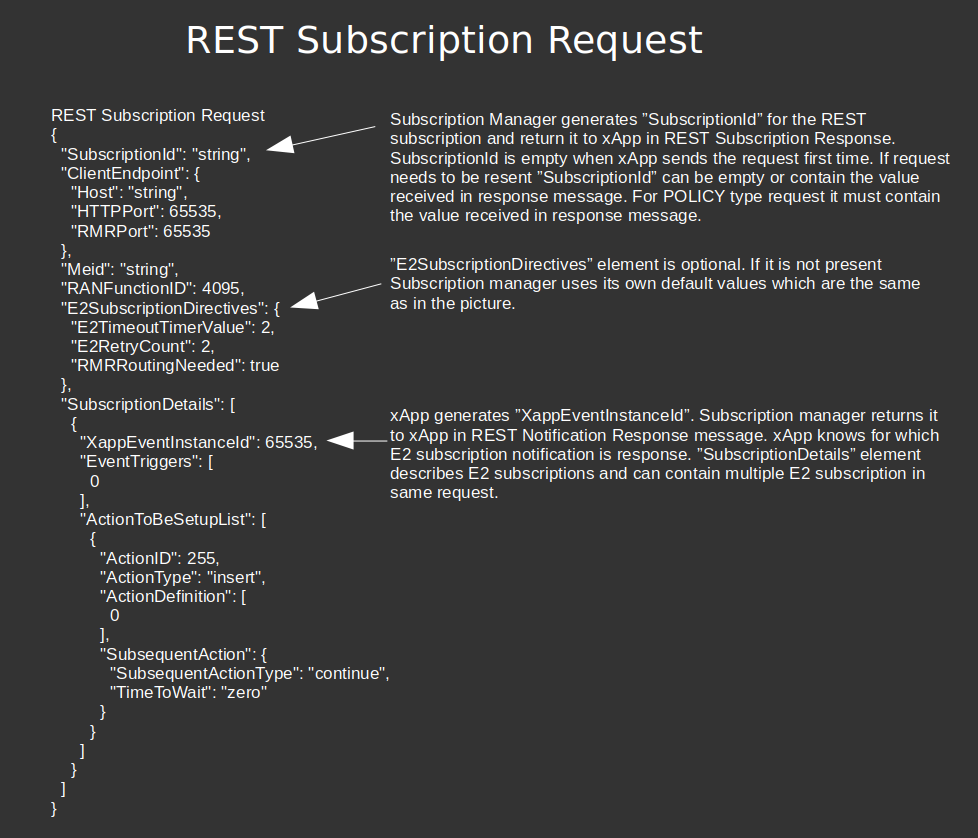
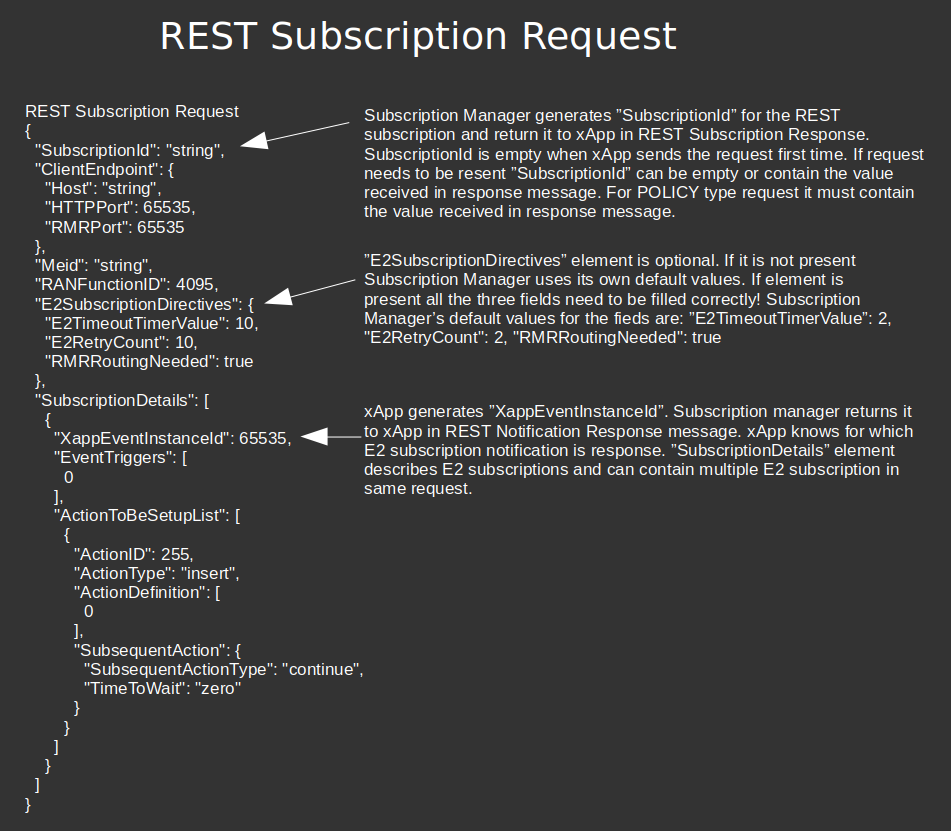
Subscription REST interface update  - xapp-frame update v0.8.5 -> v0.9.3  - Added REST interface chages introduced in new xapp-frame  - Document updated  - Added workarouds in dockerfile for outdated base image problem

Changed region(s): [[0.0305, 0.1203, 0.9758, 0.8424], [0.1525, 0.0, 0.7319, 0.0903], [0.061, 0.8724, 0.0915, 0.9025]]

diff --git a/pkg/control/control.go b/pkg/control/control.go
@@ -318,7 +318,7 @@ func (c *Control) Run() {
 //-------------------------------------------------------------------
 //
 //-------------------------------------------------------------------
-func (c *Control) GetOrCreateRestSubscription(p *models.SubscriptionParams, md5sum string, xAppRmrEndpoint string) (*RESTSubscription, string, string, error) {
+func (c *Control) GetOrCreateRestSubscription(p *models.SubscriptionParams, md5sum string, xAppRmrEndpoint string) (*RESTSubscription, string, error) {
 
 	var restSubId string
 	var restSubscription *RESTSubscription
@@ -357,7 +357,7 @@ func (c *Control) GetOrCreateRestSubscription(p *models.SubscriptionParams, md5s
 			// Subscription with id in REST request does not exist
 			xapp.Logger.Error("%s", err.Error())
 			c.UpdateCounter(cRestSubFailToXapp)
-			return nil, "", models.SubscriptionInstanceRejectCauseRESTSubscriptionWithGivenIDDoesNotExist, err
+			return nil, "", err
 		}
 
 		if !exists {
@@ -367,7 +367,7 @@ func (c *Control) GetOrCreateRestSubscription(p *models.SubscriptionParams, md5s
 		}
 	}
 
-	return restSubscription, restSubId, "", nil
+	return restSubscription, restSubId, nil
 }
 
 //-------------------------------------------------------------------
@@ -389,14 +389,14 @@ func (c *Control) RESTSubscriptionHandler(params interface{}) (*models.Subscript
 		err := fmt.Errorf("ClientEndpoint == nil")
 		xapp.Logger.Error("%v", err)
 		c.UpdateCounter(cRestSubFailToXapp)
-		return c.GetSubscriptionResponse(models.SubscriptionInstanceRejectCauseInvalidRESTRequestMessage, err.Error(), "SUBMGR", ""), common.SubscribeBadRequestCode
+		return nil, common.SubscribeBadRequestCode
 	}
 
 	_, xAppRmrEndpoint, err := ConstructEndpointAddresses(*p.ClientEndpoint)
 	if err != nil {
 		xapp.Logger.Error("%s", err.Error())
 		c.UpdateCounter(cRestSubFailToXapp)
-		return c.GetSubscriptionResponse(models.SubscriptionInstanceRejectCauseInvalidRESTRequestMessage, err.Error(), "SUBMGR", ""), common.SubscribeBadRequestCode
+		return nil, common.SubscribeBadRequestCode
 	}
 
 	md5sum, err := CalculateRequestMd5sum(params)
@@ -404,10 +404,10 @@ func (c *Control) RESTSubscriptionHandler(params interface{}) (*models.Subscript
 		xapp.Logger.Error("Failed to generate md5sum from incoming request - %s", err.Error())
 	}
 
-	restSubscription, restSubId, rejectCause, err := c.GetOrCreateRestSubscription(p, md5sum, xAppRmrEndpoint)
+	restSubscription, restSubId, err := c.GetOrCreateRestSubscription(p, md5sum, xAppRmrEndpoint)
 	if err != nil {
-		xapp.Logger.Error("Failed to get/allocate REST subscription")
-		return c.GetSubscriptionResponse(rejectCause, err.Error(), "SUBMGR", ""), common.SubscribeBadRequestCode
+		xapp.Logger.Error("Subscription with id in REST request does not exist")
+		return nil, common.SubscribeNotFoundCode
 	}
 
 	subResp.SubscriptionID = &restSubId
@@ -418,7 +418,7 @@ func (c *Control) RESTSubscriptionHandler(params interface{}) (*models.Subscript
 		restDuplicateCtrl.DeleteLastKnownRestSubsIdBasedOnMd5sum(md5sum)
 		c.registry.DeleteRESTSubscription(&restSubId)
 		c.UpdateCounter(cRestSubFailToXapp)
-		return c.GetSubscriptionResponse(models.SubscriptionInstanceRejectCauseInvalidRESTRequestMessage, err.Error(), "SUBMGR", ""), common.SubscribeBadRequestCode
+		return nil, common.SubscribeBadRequestCode
 	}
 
 	duplicate := restDuplicateCtrl.IsDuplicateToOngoingTransaction(restSubId, md5sum)
@@ -433,7 +433,7 @@ func (c *Control) RESTSubscriptionHandler(params interface{}) (*models.Subscript
 	e2SubscriptionDirectives, err := c.GetE2SubscriptionDirectives(p)
 	if err != nil {
 		xapp.Logger.Error("%s", err)
-		return c.GetSubscriptionResponse(models.SubscriptionInstanceRejectCauseInvalidRESTRequestMessage, err.Error(), "SUBMGR", ""), common.SubscribeBadRequestCode
+		return nil, common.SubscribeBadRequestCode
 	}
 	go c.processSubscriptionRequests(restSubscription, &subReqList, p.ClientEndpoint, p.Meid, &restSubId, xAppRmrEndpoint, md5sum, e2SubscriptionDirectives)
 
@@ -468,35 +468,12 @@ func (c *Control) GetE2SubscriptionDirectives(p *models.SubscriptionParams) (*E2
 				return nil, fmt.Errorf("p.E2SubscriptionDirectives.E2RetryCount out of range (0-10): %v", *p.E2SubscriptionDirectives.E2RetryCount)
 			}
 		}
-		if p.E2SubscriptionDirectives.RMRRoutingNeeded == nil {
-			xapp.Logger.Error("p.E2SubscriptionDirectives.RMRRoutingNeeded == nil")
-			e2SubscriptionDirectives.CreateRMRRoute = true
-		} else {
-			e2SubscriptionDirectives.CreateRMRRoute = *p.E2SubscriptionDirectives.RMRRoutingNeeded
-		}
+		e2SubscriptionDirectives.CreateRMRRoute = p.E2SubscriptionDirectives.RMRRoutingNeeded
 	}
 	xapp.Logger.Debug("e2SubscriptionDirectives.E2TimeoutTimerValue: %v", e2SubscriptionDirectives.E2TimeoutTimerValue)
 	xapp.Logger.Debug("e2SubscriptionDirectives.E2MaxTryCount: %v", e2SubscriptionDirectives.E2MaxTryCount)
 	xapp.Logger.Debug("e2SubscriptionDirectives.CreateRMRRoute: %v", e2SubscriptionDirectives.CreateRMRRoute)
 	return e2SubscriptionDirectives, nil
-}
-
-//-------------------------------------------------------------------
-//
-//-------------------------------------------------------------------
-func (c *Control) GetSubscriptionResponse(rejectCause string, errorCause string, errorSource string, timeoutType string) *models.SubscriptionResponse {
-	subResp := models.SubscriptionResponse{}
-	subscriptionInstance := models.SubscriptionInstance{}
-	subscriptionInstance.RejectCause = &rejectCause
-	subscriptionInstance.ErrorCause = &errorCause
-	subscriptionInstance.ErrorSource = &errorSource
-	if timeoutType != "" {
-		subscriptionInstance.TimeoutType = &timeoutType
-	}
-	subResp.SubscriptionInstances = append(subResp.SubscriptionInstances, &subscriptionInstance)
-	xapp.Logger.Error("etSubscriptionResponse() %+v", subscriptionInstance)
-
-	return &subResp
 }
 
 //-------------------------------------------------------------------
@@ -624,9 +601,9 @@ func (c *Control) sendUnsuccesfullResponseNotification(restSubId *string, restSu
 		SubscriptionID: restSubId,
 		SubscriptionInstances: []*models.SubscriptionInstance{
 			&models.SubscriptionInstance{E2EventInstanceID: &e2EventInstanceID,
-				ErrorCause:          &errorInfo.ErrorCause,
-				ErrorSource:         &errorInfo.ErrorSource,
-				TimeoutType:         &errorInfo.TimeoutType,
+				ErrorCause:          errorInfo.ErrorCause,
+				ErrorSource:         errorInfo.ErrorSource,
+				TimeoutType:         errorInfo.TimeoutType,
 				XappEventInstanceID: &xAppEventInstanceID},
 		},
 	}
@@ -660,7 +637,7 @@ func (c *Control) sendSuccesfullResponseNotification(restSubId *string, restSubs
 		SubscriptionID: restSubId,
 		SubscriptionInstances: []*models.SubscriptionInstance{
 			&models.SubscriptionInstance{E2EventInstanceID: &e2EventInstanceID,
-				ErrorCause:          nil,
+				ErrorCause:          "",
 				XappEventInstanceID: &xAppEventInstanceID},
 		},
 	}
@@ -1506,11 +1483,7 @@ func (c *Control) PrintRESTSubscriptionRequest(p *models.SubscriptionParams) {
 			fmt.Printf("    E2RetryCount = %v\n", *p.E2SubscriptionDirectives.E2RetryCount)
 		}
 		fmt.Printf("    E2TimeoutTimerValue = %v\n", p.E2SubscriptionDirectives.E2TimeoutTimerValue)
-		if p.E2SubscriptionDirectives.RMRRoutingNeeded == nil {
-			fmt.Println("    RMRRoutingNeeded == nil")
-		} else {
-			fmt.Printf("    RMRRoutingNeeded = %v\n", *p.E2SubscriptionDirectives.RMRRoutingNeeded)
-		}
+		fmt.Printf("    RMRRoutingNeeded = %v\n", p.E2SubscriptionDirectives.RMRRoutingNeeded)
 	}
 	for _, subscriptionDetail := range p.SubscriptionDetails {
 		if p.RANFunctionID != nil {

diff --git a/pkg/teststube2ap/stubE2.go b/pkg/teststube2ap/stubE2.go
@@ -838,21 +838,9 @@ func (tc *E2Stub) GetE2RestIds(resp *clientmodel.SubscriptionResponse) *E2RestId
 			if resp.SubscriptionInstances[0].E2EventInstanceID != nil {
 				e2RestIds.E2SubsId = uint32(*resp.SubscriptionInstances[0].E2EventInstanceID)
 			}
-			if resp.SubscriptionInstances[0].ErrorCause != nil {
-				e2RestIds.ErrorCause = *resp.SubscriptionInstances[0].ErrorCause
-			} else {
-				e2RestIds.ErrorCause = "nil"
-			}
-			if resp.SubscriptionInstances[0].ErrorSource != nil {
-				e2RestIds.ErrorSource = *resp.SubscriptionInstances[0].ErrorSource
-			} else {
-				e2RestIds.ErrorSource = "nil"
-			}
-			if resp.SubscriptionInstances[0].TimeoutType != nil {
-				e2RestIds.TimeoutType = *resp.SubscriptionInstances[0].TimeoutType
-			} else {
-				e2RestIds.TimeoutType = "nil"
-			}
+			e2RestIds.ErrorCause = resp.SubscriptionInstances[0].ErrorCause
+			e2RestIds.ErrorSource = resp.SubscriptionInstances[0].ErrorSource
+			e2RestIds.TimeoutType = resp.SubscriptionInstances[0].TimeoutType
 		}
 	}
 	return e2RestIds
@@ -900,38 +888,11 @@ func (tc *E2Stub) SendRESTSubsReq(t *testing.T, params *RESTSubsReqParams) strin
 		// Swagger generated code makes checks for the values that are inserted the subscription function
 		// If error cause is unknown and POST is not done, the problem is in the inserted values
 		tc.Error("======== REST subscription request failed %s ========", err.Error())
-		if resp != nil {
-			tc.PrintSubscriptionInsctanceErrorInfo(resp)
-		} else {
-			tc.Error("Subscribe resp == nil")
-		}
 		return ""
 	}
 	tc.subscriptionId = *resp.SubscriptionID
 	tc.Debug("======== REST subscriptions posted successfully. SubscriptionID = %s, RequestCount = %v ========", *resp.SubscriptionID, tc.requestCount)
 	return *resp.SubscriptionID
-}
-
-//-----------------------------------------------------------------------------
-//
-//-----------------------------------------------------------------------------
-func (tc *E2Stub) PrintSubscriptionInsctanceErrorInfo(resp *clientmodel.SubscriptionResponse) {
-	for _, subscriptionInstance := range resp.SubscriptionInstances {
-		if subscriptionInstance != nil {
-			if subscriptionInstance.RejectCause != nil {
-				tc.Error("subscriptionInstance.RejectCause= %s", *subscriptionInstance.RejectCause)
-			}
-			if subscriptionInstance.ErrorCause != nil {
-				tc.Error("subscriptionInstance.ErrorCause= %s", *subscriptionInstance.ErrorCause)
-			}
-			if subscriptionInstance.ErrorSource != nil {
-				tc.Error("subscriptionInstance.ErrorSource= %s", *subscriptionInstance.ErrorSource)
-			}
-			if subscriptionInstance.TimeoutType != nil {
-				tc.Error("subscriptionInstance.TimeoutType = %s", *subscriptionInstance.TimeoutType)
-			}
-		}
-	}
 }
 
 //-----------------------------------------------------------------------------
@@ -1033,7 +994,7 @@ func (p *RESTSubsReqParams) SetE2SubscriptionDirectives(E2RetryCount int64, E2Ti
 	p.SubsReqParams.E2SubscriptionDirectives = E2SubscriptionDirectives
 	p.SubsReqParams.E2SubscriptionDirectives.E2RetryCount = &E2RetryCount
 	p.SubsReqParams.E2SubscriptionDirectives.E2TimeoutTimerValue = E2TimeoutTimerValue
-	p.SubsReqParams.E2SubscriptionDirectives.RMRRoutingNeeded = &RMRRoutingNeeded
+	p.SubsReqParams.E2SubscriptionDirectives.RMRRoutingNeeded = RMRRoutingNeeded
 }
 
 func (p *RESTSubsReqParams) RemoveE2SubscriptionDirectives() {
@@ -1227,7 +1188,7 @@ func (p *RESTSubsReqParams) SetSubscriptionDirectives(e2Timeout int64, e2RetryCo
 	e2SubscriptionDirectives := &clientmodel.SubscriptionParamsE2SubscriptionDirectives{}
 	e2SubscriptionDirectives.E2TimeoutTimerValue = e2Timeout
 	e2SubscriptionDirectives.E2RetryCount = &e2RetryCount
-	e2SubscriptionDirectives.RMRRoutingNeeded = &routingNeeded
+	e2SubscriptionDirectives.RMRRoutingNeeded = routingNeeded
 	p.SubsReqParams.E2SubscriptionDirectives = e2SubscriptionDirectives
 
 }

diff --git a/pkg/control/ut_messaging_test.go b/pkg/control/ut_messaging_test.go
@@ -2619,15 +2619,11 @@ func TestRESTSubReqRetransmission(t *testing.T) {
 
 	// Subs Create
 	const subReqCount int = 1
-	//	const e2Timeout int64 = 2
-	//	const e2RetryCount int64 = 2
-	//	const routingNeeded bool = true
 
 	// In order to force both XAPP's to create their own subscriptions, force rtmgr to block a while so that 2nd create
 	// gets into execution before the rtmgrg responds for the first one.
 	waiter := rtmgrHttp.AllocNextSleep(10, true)
 	params := xappConn1.GetRESTSubsReqReportParams(subReqCount)
-	//	params.SetSubscriptionDirectives(e2Timeout, e2RetryCount, routingNeeded)
 	restSubId1 := xappConn1.SendRESTSubsReq(t, params)
 	xappConn2.SendRESTSubsReq(t, params)
 
@@ -3683,8 +3679,12 @@ func TestRESTSubReqSubFailRespInSubmgr(t *testing.T) {
 	})
 
 	const subReqCount int = 1
+	const e2Timeout int64 = 2
+	const e2RetryCount int64 = 1
+	const routingNeeded bool = true
 
 	params := xappConn1.GetRESTSubsReqReportParams(subReqCount)
+	params.SetSubscriptionDirectives(e2Timeout, e2RetryCount, routingNeeded)
 	restSubId := xappConn1.SendRESTSubsReq(t, params)
 
 	crereq1, cremsg1 := e2termConn1.RecvSubsReq(t)

diff --git a/docs/user-guide.rst b/docs/user-guide.rst
@@ -78,8 +78,9 @@ which record is found Subscription Manager returns successful REST notification 
 contain E2 subscriptions only for one E2 Node.
 
 Subscription Manager indicates to xApp in response notification if there has happened any error or timeout. xApp can send retry based on that information but
-resending should happen after Subscription Manager has processed the previous request completely otherwise the request is rejected. If timeout happens response
-notification contains information where it happened. Timeout can happen in E2, Routing Manager and SDL interface.
+resending should happen after Subscription Manager has processed the previous request completely, otherwise xApp will get successful response for the new request
+without that the request is actually retried. If timeout happens, response notification contains information where it happened. Timeout can happen in E2, Routing
+Manager and SDL interface.
 
 If there is need to change REPORT or INSERT type subscription then previously made subscription need to be deleted first. If there are any REPORT or INSERT
 type E2 subscription which need to change frequently, it is not good idea to bundle them with other REPORT or INSERT type E2 subscriptions in the same REST
@@ -133,21 +134,21 @@ Architecture
       `<https://wiki.o-ran-sc.org/display/RICP/Routing+Manager+and+Subscription+Manager>`_
 
 
-  * Subscription Request message
+  * REST Subscription Request message
   
     .. image:: images/REST_Subscription_Request.png
       :width: 600
-      :alt: Subscription Request message
+      :alt: REST Subscription Request message
 
 
-  * Subscription RESTRequest Response message
+  * REST Subscription Response message
   
     .. image:: images/REST_Subscription_Response.png
       :width: 600
-      :alt: REST Subscription Request Response message
+      :alt: REST Subscription Response message
 
 
-  * Subscription Request Notification message
+  * REST Subscription Notification message
   
     .. image:: images/REST_Subscription_Notification.png
       :width: 600
@@ -198,7 +199,10 @@ Architecture
       If values are does not accepted then send function returns "unknown error".
 
       If failure happens when Subscription Manager validates the REST request then error is returned instantly and processing of request is
-      stopped. xApp receives bad request (HTTP response code 400) response.
+      stopped. xApp receives "Bad Request" (HTTP response code 400) response.
+
+      If failure happens when xApp resends the same request including REST request id but the subscription is not found from Subscription Manager's
+      records, then xApp receives "Not Found" (HTTP response code 404) response.
 
       If failure response is received from E2 Node then REST notification is forwarded to xApp with appropriate error cause. The notification
       contains REST request id, xApp instance id and zero E2 instance id.
